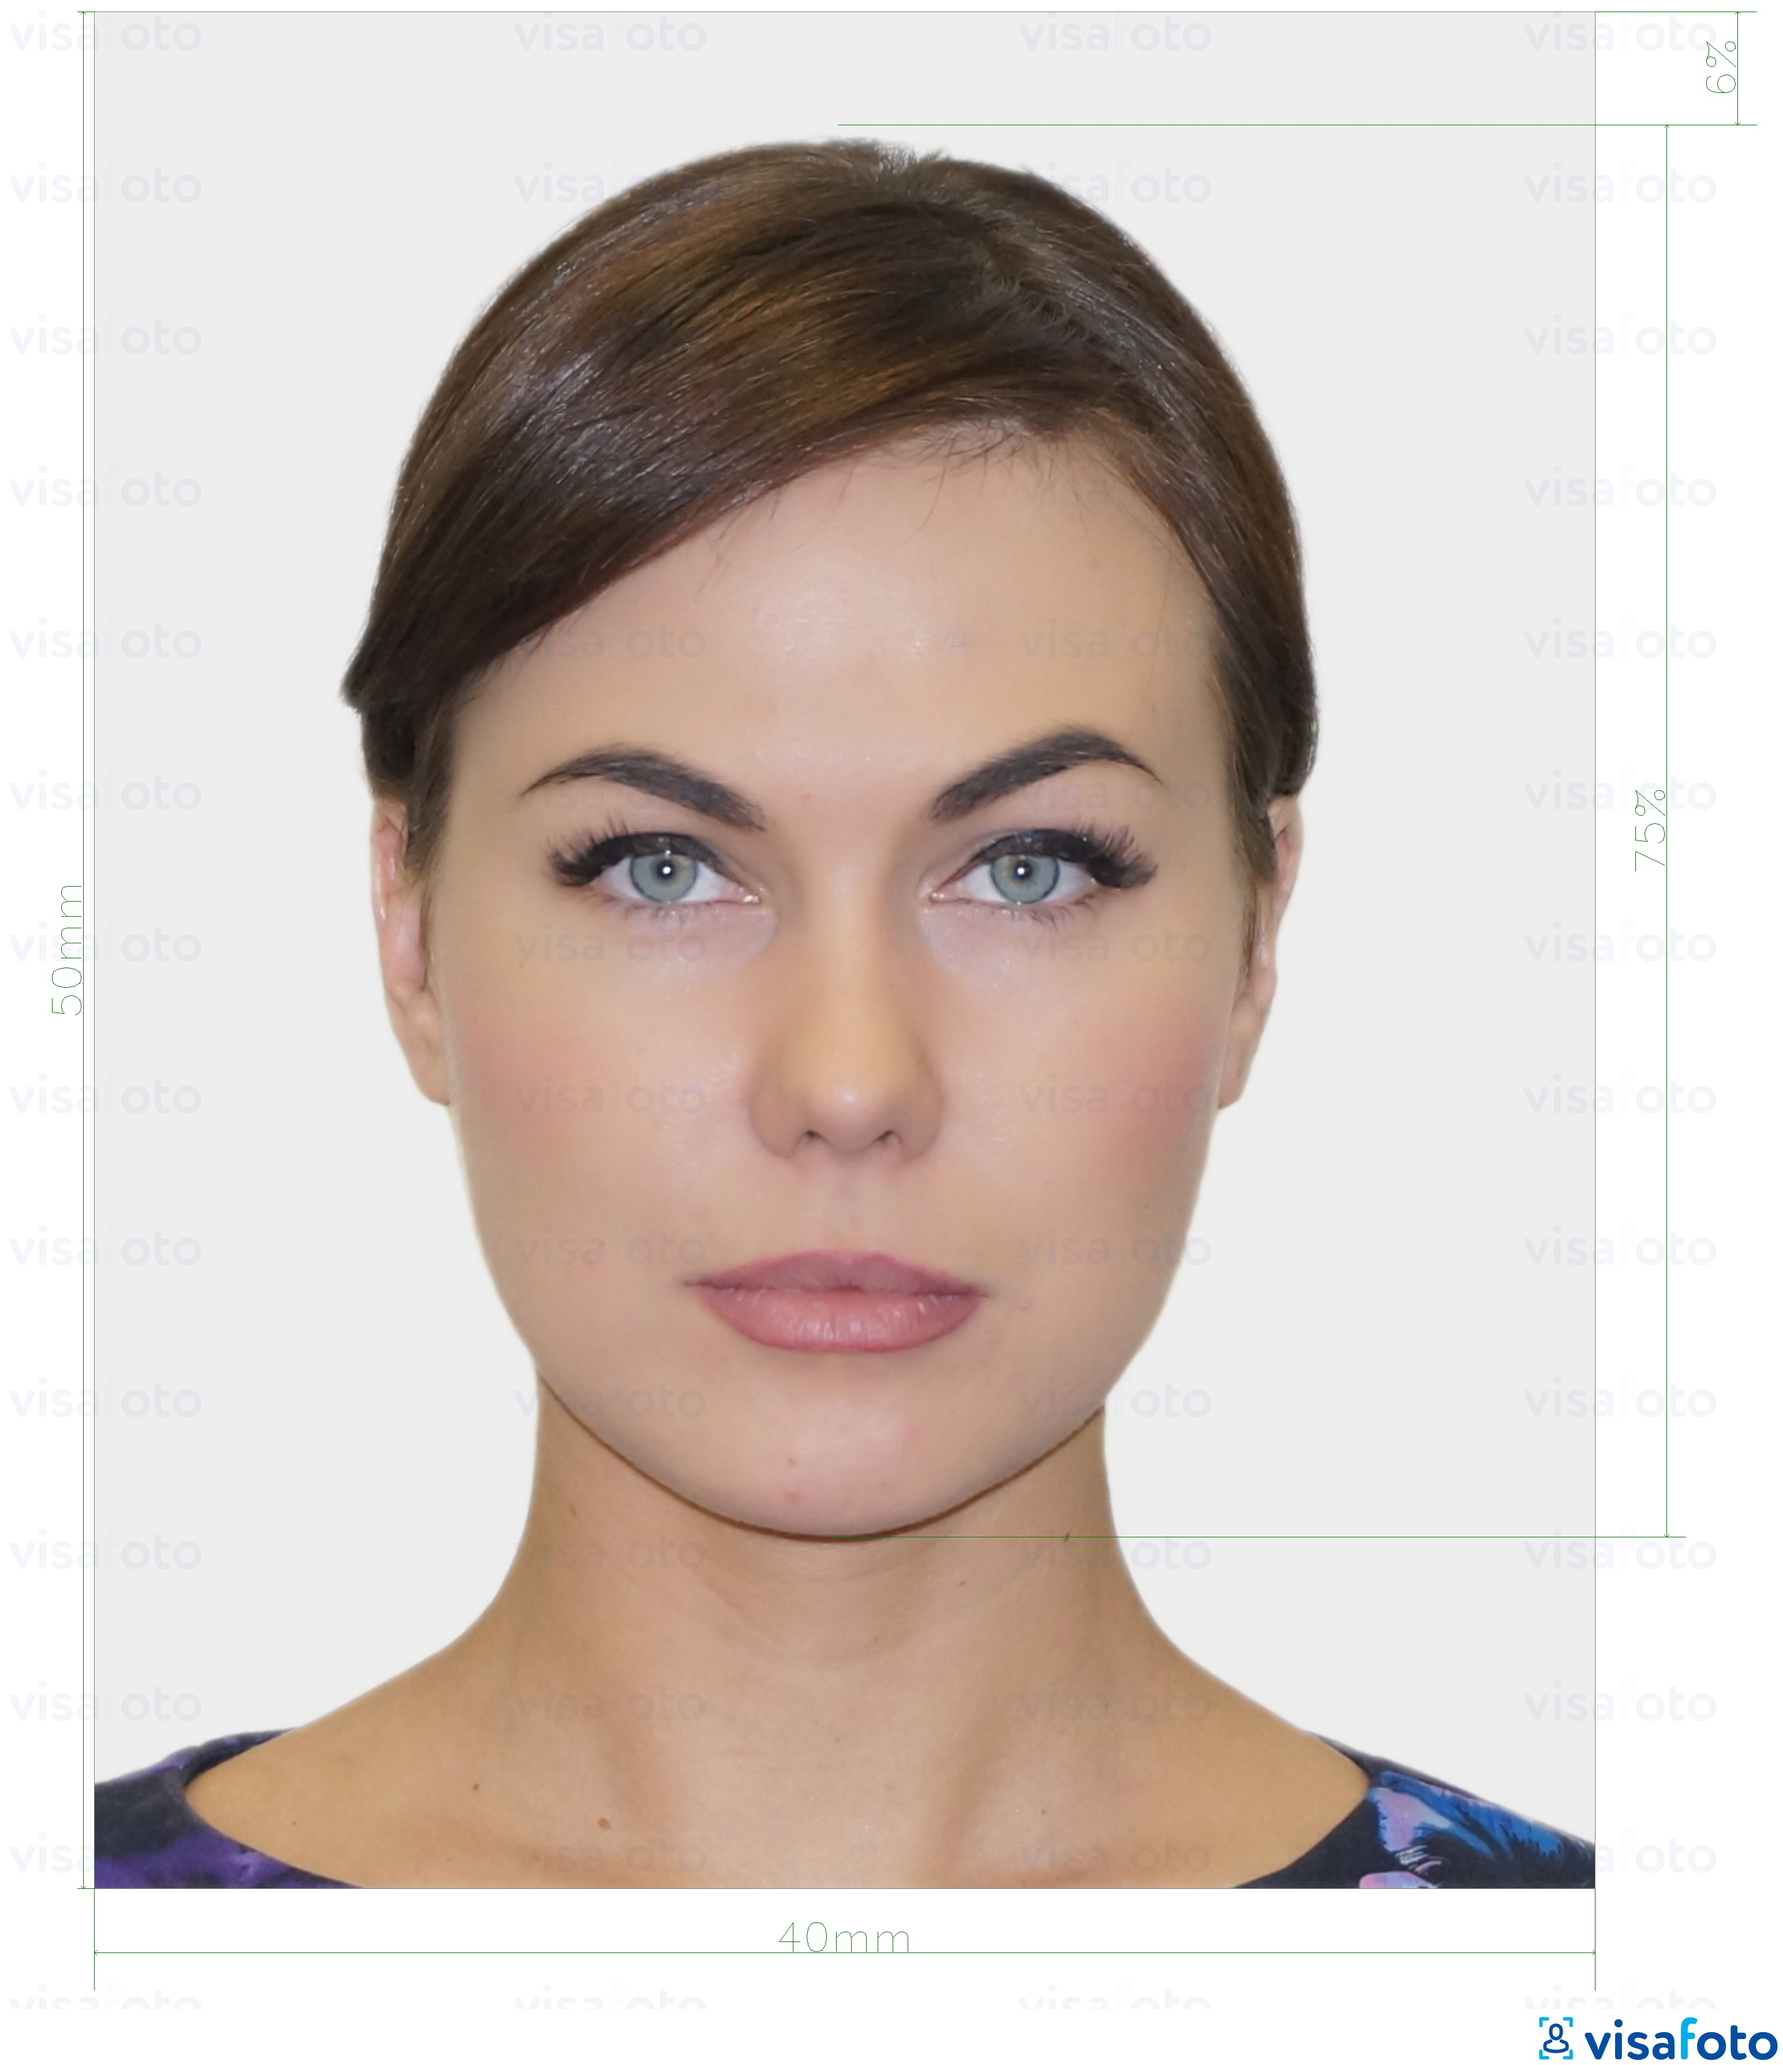
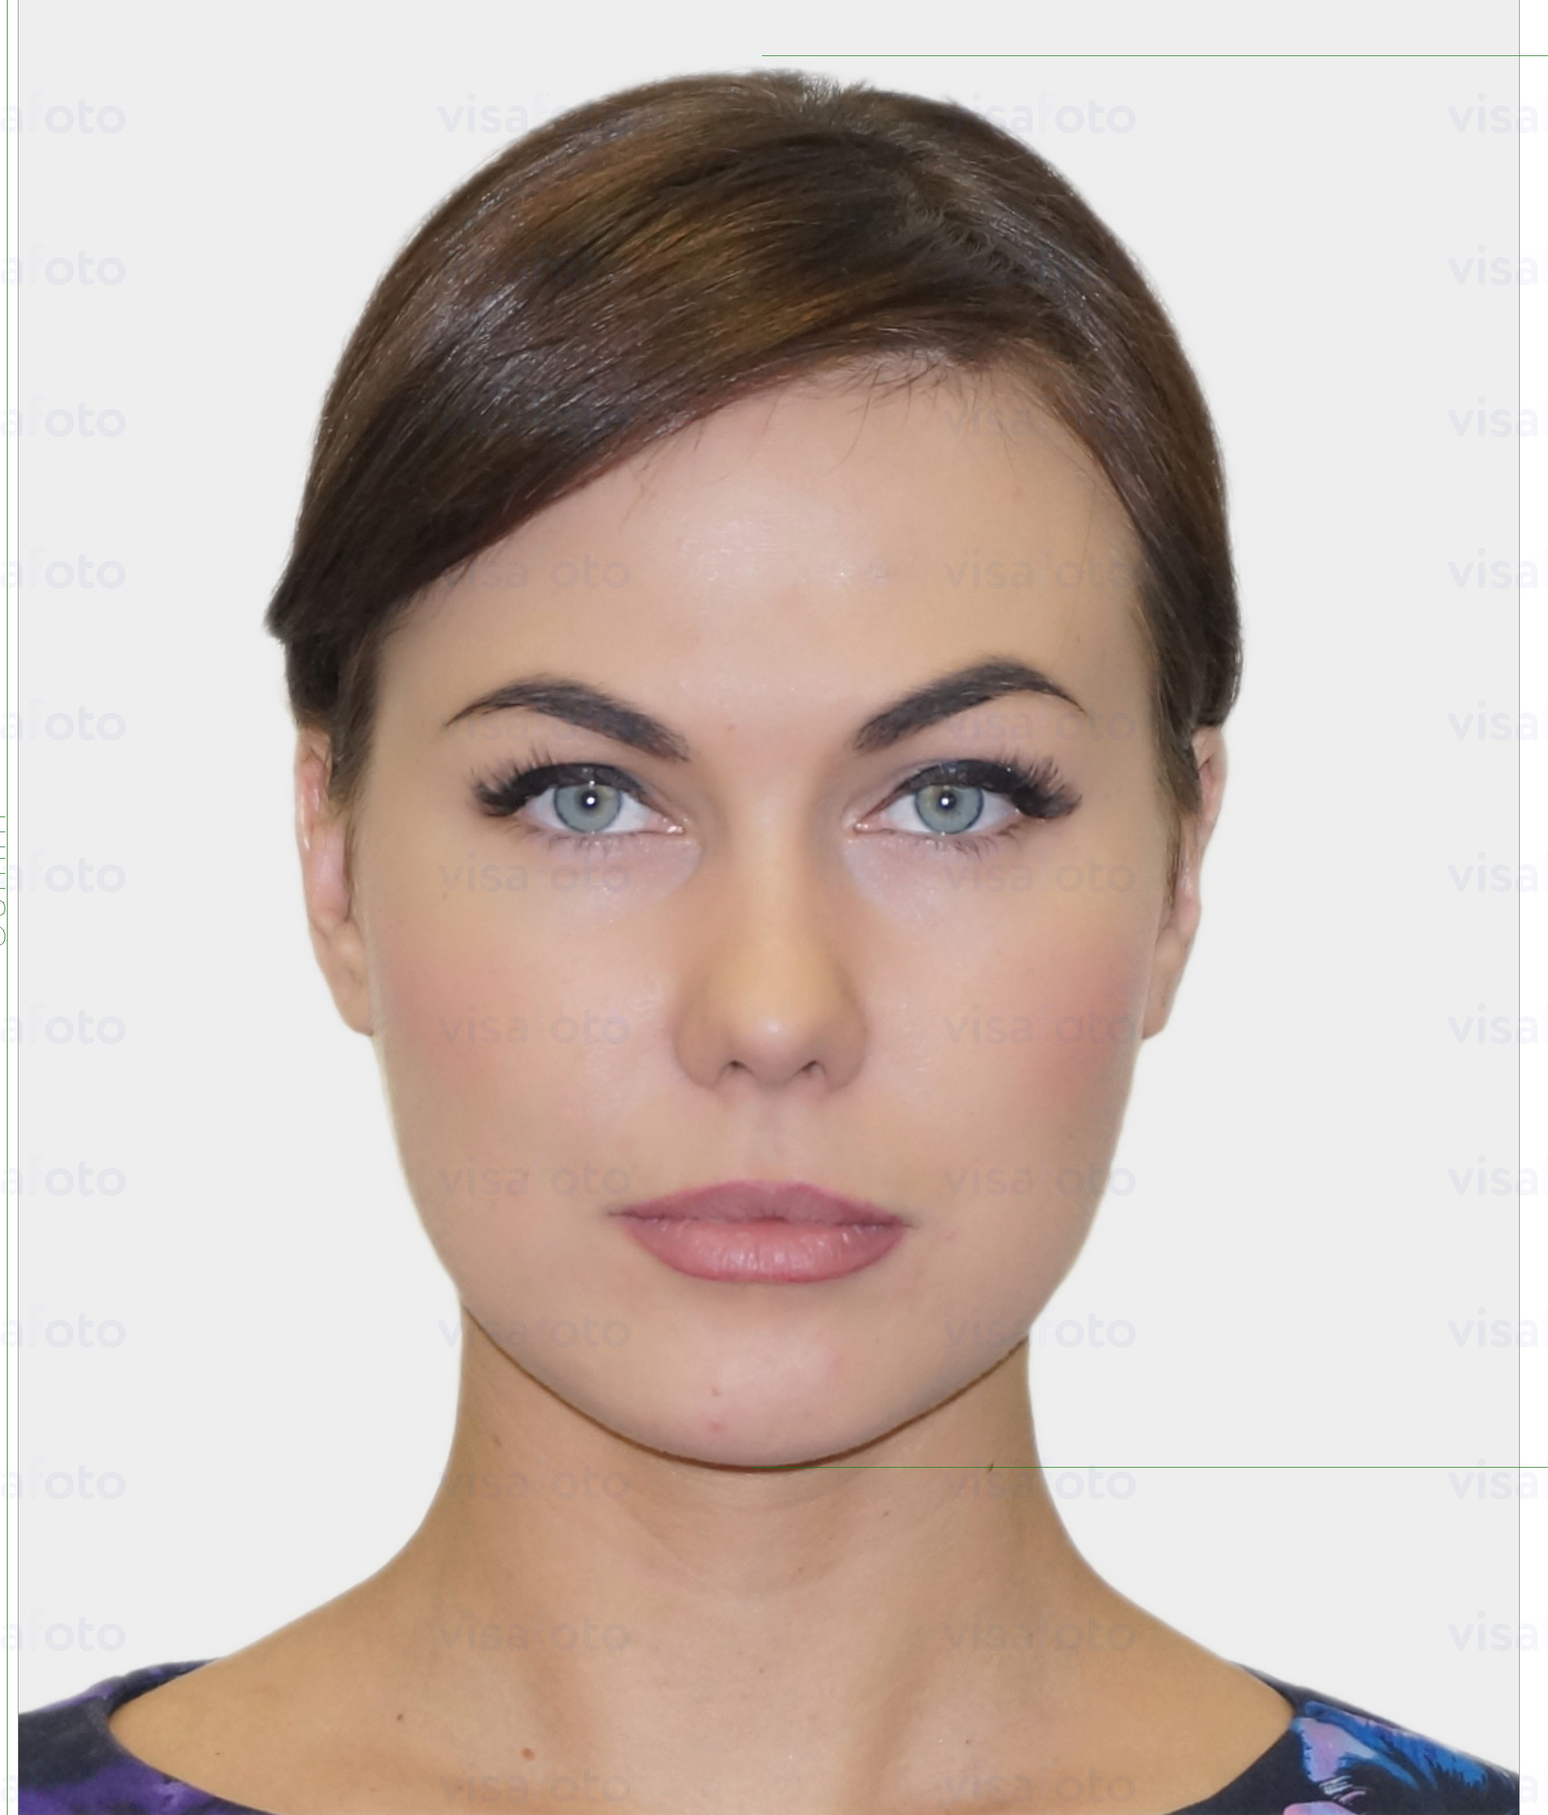
Cloning applying ang face aligment

diff --git a/id-card/script2.py b/id-card/script2.py
@@ -1,0 +1,75 @@
+#! usr/env
+
+from pathlib import Path
+from retinaface import RetinaFace
+import cv2 as cv
+import matplotlib.pyplot as plt
+import numpy as np
+from deepface import DeepFace
+import math
+from PIL import Image
+
+
+def detect_face(image ,x_eps=0.35, y_eps=0.35):
+
+
+    resp = RetinaFace.detect_faces(image)
+    
+    facial_area = resp.get('face_1').get('facial_area')
+    x1,y1,x2,y2 = facial_area
+    w = abs(x2 - x1)
+    h = abs(y2 - y1)
+    x1 -= int(x_eps*w)
+    y1 -= int(y_eps*h)
+    w = int(w*(1+2*x_eps))
+    h = int(h*(1+2*y_eps))
+    return (x1,y1,w,h)
+
+def draw_dectected_face(image):
+    """
+    """
+    x,y,w,h = detect_face(image)
+    cv.rectangle(image, (x, y), (x+w, y+h), (0, 255, 0), 2)
+    plt.imshow(image)
+
+def align_face(image):
+  """
+  """
+  resp = RetinaFace.detect_faces(image)
+  face = resp['face_1']
+  x1 , y1 = face['landmarks']['right_eye']
+  x2 , y2 = face['landmarks']['left_eye']
+  a = abs(y1 - y2)
+  b = abs(x2 - x1)
+  c = math.sqrt(a**2 + b**2)
+  cos_alpha = (b**2 + c**2 - a**2) / (2*b*c)
+  alpha = np.arccos(cos_alpha)
+  alpha_degrees = np.degrees(alpha)
+  pillow_img = Image.fromarray(image)
+  aligned_img = np.array(pillow_img.rotate(alpha_degrees))
+
+  return aligned_img
+
+def replace_face(source,target,*, align=True , clone=True):
+    """
+        Detect and replace unique relevant face in source by target image
+        return source with replaced face
+    """
+    if align:
+      source = align_face(source)
+      target = align_face(target)
+
+    x,y,w,h = detect_face(source)
+    resized_target = cv.resize(target,(w,h),interpolation = cv.INTER_AREA)
+
+    if clone:
+      resized_target_mask = 250 * np.ones(resized_target.shape, resized_target.dtype) # white mask
+      center = (x+w//2,y+h//2)
+      # Clone seamlessly.
+      output = cv.seamlessClone(resized_target, source, resized_target_mask, center, cv.NORMAL_CLONE)
+      return output
+
+    print(resized_target.shape[0],h)
+    # assert(resized_target.shape[0] == h and resized_target.shape[0] == w )
+    source[y:y+h,x:x+w] = resized_target[:,:]
+    return source
